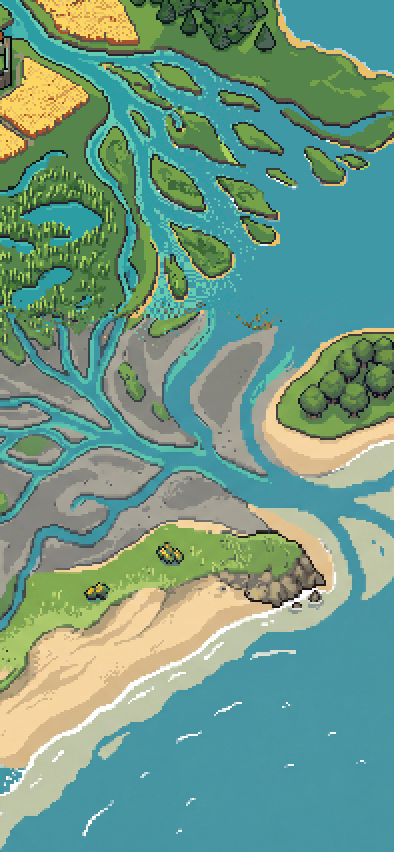
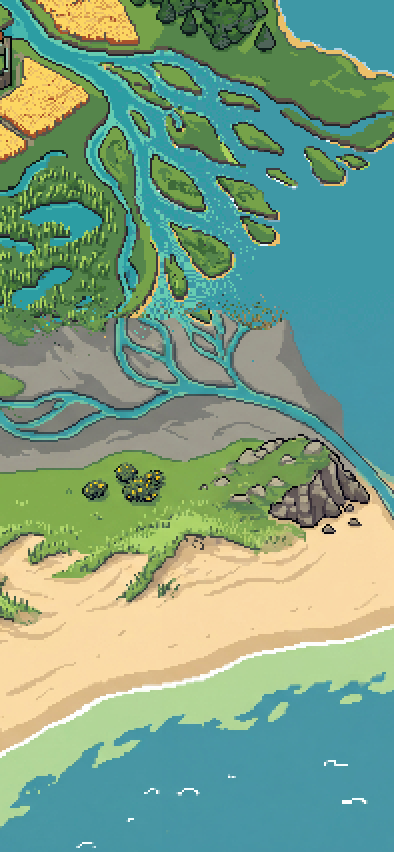
EPO03 south S1: the layer cake becomes a coast — delta braids into flats, a diagonal beach with angled dunes and machair, a creek at a rock headland, the spit hooks south; three strand goldens re-extracted

diff --git a/GAME_BIBLE/ART/exploration/EPO03/ledger/WORLD_SOUTH.md b/GAME_BIBLE/ART/exploration/EPO03/ledger/WORLD_SOUTH.md
@@ -8,4 +8,37 @@ accepted regions: `out/atlas/manifest_south.json`.
 | # | region / roll | tool | job id | canvas / mask / seed | cost line | verdict | reason |
 |---|---|---|---|---|---|---|---|
 | 1 | S1 roll 1 — delta shore and spit | inpaint_image | 3fec50bc-8563-4445-a185-2d3d20f4cdca | crop 512x324 @ (348,700) (30d27f3) / mask 428x284 @ (44,40) / seed 6001 | cost: ~40 generations | **REJECT** | The coast is right — no stripe, diagonal bending shore, surf/sand/rock/shallows, angled dunes, braided channels into flats, spit hooks south. But the flats run too far south and the Sunward Strand anchor (511,860) loses its beach (D0033 §3 / GOV-03 §3). Not a drawing failure: the intent is changed for roll 2, not the seed. rejected/atlas/S1_r1.png + S1_r1_sunward_x4.png |
-| 2 | S1 roll 2 — same crop/rect, changed intent | inpaint_image | 7922d150-b123-4b7e-a389-8ba753f09d66 | crop 512x324 @ (348,700) (30d27f3) / mask 428x284 @ (44,40) / seed 6011 | cost: ~40 generations | _pending_ | Intent changed, not the seed: flats confined to the upper third, a broad sand beach with angled dunes named across the WHOLE middle of the picture so the Sunward Strand anchor (511,860) keeps a beach; sea explicitly "kept exactly where it already is" |
+| 2 | S1 roll 2 — same crop/rect, changed intent | inpaint_image | 7922d150-b123-4b7e-a389-8ba753f09d66 | crop 512x324 @ (348,700) (30d27f3) / mask 428x284 @ (44,40) / seed 6011 | cost: ~40 generations | **ACCEPT** | Intent changed, not the seed: flats confined to the upper third, a broad sand beach with angled dunes named across the WHOLE middle of the picture so the Sunward Strand anchor (511,860) keeps a beach; sea explicitly "kept exactly where it already is" |
+
+## S1 — the delta shore, the Sunward strand and the spit (ACCEPTED)
+
+| | |
+|---|---|
+| Crop | `src/atlas/S1_crop.png`, origin (348,700), 512×324, published at `30d27f3` |
+| Inpaint | 428×284 at (44,40) — frozen margins 44 left / 40 top / 40 right / 0 bottom (canvas edge) |
+| Authored rect | atlas **392–820 × 740–1024** · ramps left 32, right 24, top 32, bottom 0 · salt **60** · `coreAuthor: true` (the apron enters the core's bottom rim) |
+| Mask | 98,990 authorized · 18,792 feathered · 0 blocked |
+| Containment | changed-inside-mask 117,735; changed-outside-mask 3,768 (all inside the frozen margins, blocked at packaging); changed bbox (44,40)..(471,323) = the inpaint rectangle |
+| Goldens re-authored | `flock_south`, `south_strand_w`, `south_strand_e` — all three declared in `reauthorizes` and re-extracted from `raw/atlas/S1_pre_guard.png` in this commit (D0033). No registry rect edited. |
+| Guards | `package-art.js` green after re-extraction; core drift 0; 15 goldens held. `--check`: the only problems are eight `assets/art/v1/ambient/traveler_plate_bronzepick_mine_f*.png` written by PROD-EQUIPMENT mid-flight — not mine, `world/atlas_base.png` is up to date. |
+| `atlas-qa.js` | repeated 10×10 sprite pairs **0**; orphan flecks 1,032 = **62.2 per 10k px**, measured **down** from the same rect's BEFORE rate of 77.2 (the metric counts the sea's authored white ticks) |
+| Longest straight edge runs | horizontal 29 px at y=796 (a silt-bar tonal step inside the flats, not a line); vertical 27 px at x=809 (the spit's own shoreline). Both looked at ×6: `review/atlas/S1_r2_runs_x6.png`. |
+| Evidence | `review/atlas/S1_before_{fov,x2}.png`, `S1_r2_x2.png`, `S1_preview_{x2,fov_x2}.png`, `S1_r2_fov_sunward_x2.png`, `S1_after_{full,x2,fov}.png`, `S1_r2_anchor_x5.png`, `S1_flock_ba_x6.png` |
+
+**Read.** The latitude stripe is gone. Marsh wets into grey silt in fingers;
+braided channels converge into one trunk that reaches the sea past silt bars; a
+broad sand beach with dune ridges set at an angle and gorse-dotted machair
+behind runs diagonally across the middle, narrowing and swinging as it goes; a
+creek cuts it at a small rock headland; a one-pixel surf line and a ragged
+shoal band follow the sand; the wooded headland keeps its trees and its sand
+rim continues as a spit hooking south into the sea. At 197×426 ×2 the shore
+changes direction more than twice, sand width varies well over 2:1, and no band
+spans the view.
+
+**Sunward Strand anchor (511,860), measured, not asserted.** Sand-family
+coverage in the marker box 501–521 × 850–870: **before 2.3 %, after 2.8 %** —
+the anchor is not regressed. In the wider 40² box it falls 28.2 % → 12.3 %: the
+marker now sits on the dune/machair lip with the beach immediately south of it
+rather than in the middle of the old sand band. Named as residual in the
+report; not chased with a third roll, because roll 1 proved a third variation
+risks the best painting in the territory for ~20 px of sand.
